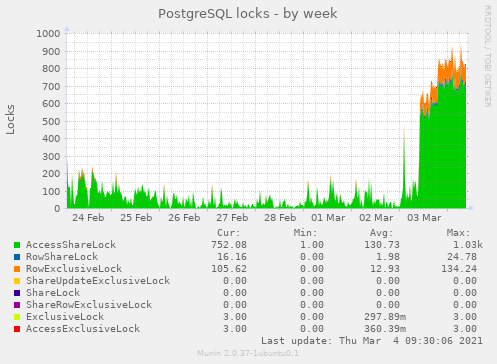
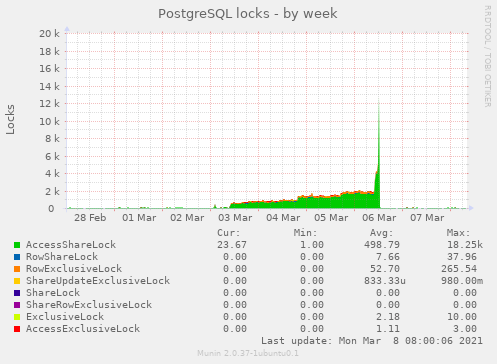
Add notes for 2021-03-08

diff --git a/docs/2021-03/index.html b/docs/2021-03/index.html
@@ -19,7 +19,7 @@ Also, we found some issues building and running OpenRXV currently due to ecosyst
 <meta property="og:type" content="article" />
 <meta property="og:url" content="https://alanorth.github.io/cgspace-notes/2021-03/" />
 <meta property="article:published_time" content="2021-03-01T10:13:54+02:00" />
-<meta property="article:modified_time" content="2021-03-06T13:35:20+02:00" />
+<meta property="article:modified_time" content="2021-03-07T15:51:12+02:00" />
 
 
 
@@ -44,9 +44,9 @@ Also, we found some issues building and running OpenRXV currently due to ecosyst
   "@type": "BlogPosting",
   "headline": "March, 2021",
   "url": "https://alanorth.github.io/cgspace-notes/2021-03/",
-  "wordCount": "1306",
+  "wordCount": "1673",
   "datePublished": "2021-03-01T10:13:54+02:00",
-  "dateModified": "2021-03-06T13:35:20+02:00",
+  "dateModified": "2021-03-07T15:51:12+02:00",
   "author": {
     "@type": "Person",
     "name": "Alan Orth"
@@ -361,6 +361,59 @@ $ curl -X PUT &quot;localhost:9200/openrxv-items/_settings&quot; -H 'Content-Typ
 <li><a href="https://github.com/ilri/OpenRXV/issues/68">Converted the backend container to use a custom image that includes <code>unoconv</code></a> so we don&rsquo;t have to manually install it anymore</li>
 </ul>
 </li>
+</ul>
+<h2 id="2021-03-08">2021-03-08</h2>
+<ul>
+<li>I approved the WLE item that I edited last week, and all the metadata is there: <a href="https://hdl.handle.net/10568/111810">https://hdl.handle.net/10568/111810</a>
+<ul>
+<li>So I&rsquo;m not sure what Niroshini&rsquo;s issue with metadata is&hellip;</li>
+</ul>
+</li>
+<li>Peter sent a message yesterday saying that his item finally got committed
+<ul>
+<li>I looked at the Munin graphs and there was a MASSIVE spike in database activity two days ago, and now database locks are back down to normal levels (from 1000+):</li>
+</ul>
+</li>
+</ul>
+<pre><code class="language-console" data-lang="console">$ psql -c 'SELECT * FROM pg_locks pl LEFT JOIN pg_stat_activity psa ON pl.pid = psa.pid;' | wc -l
+13
+</code></pre><ul>
+<li>On 2021-03-03 the PostgreSQL transactions started rising:</li>
+</ul>
+<p><img src="/cgspace-notes/2021/03/postgres_querylength_ALL-week.png" alt="PostgreSQL query length week"></p>
+<ul>
+<li>After that the connections and locks started going up, peaking on 2021-03-06:</li>
+</ul>
+<p><img src="/cgspace-notes/2021/03/postgres_locks_ALL-week.png" alt="PostgreSQL locks week">
+<img src="/cgspace-notes/2021/03/postgres_connections_ALL-week.png" alt="PostgreSQL connections week"></p>
+<ul>
+<li>I sent another message to Atmire to ask if they have time to look into this</li>
+<li>CIFOR is pressuring me to upload the batch items from last week
+<ul>
+<li>Vika sent me a final file with some duplicates that Peter identified removed</li>
+<li>I extracted and re-applied my basic corrections from last week in OpenRefine, then ran the items through <code>csv-metadata-quality</code> checker and uploaded them to CGSpace</li>
+<li>In total there are 1,088 items</li>
+</ul>
+</li>
+<li>Udana from IWMI emailed to ask about CGSpace thumbnails</li>
+<li>Udana from IWMI emailed to ask about an item uploaded recently that does not appear in AReS
+<ul>
+<li><a href="https://hdl.handle.net/10568/111794">The item</a> was added to the archive on 2021-03-05, and I last harvested on 2021-03-06, so this might be an issue of a missing item</li>
+</ul>
+</li>
+<li>Abenet got a quote from Atmire to buy 125 credits for 3750€</li>
+<li>Maria at Bioversity sent some feedback about duplicate items on AReS</li>
+<li>I&rsquo;m wondering if the issue of the <code>openrxv-items-final</code> index not getting cleared after a successful harvest (which results in having 200,000, then 300,000, etc items) has to do with the alias issue I fixed yesterday
+<ul>
+<li>I will start a fresh harvest on AReS without now to check, but first back up the current index just in case:</li>
+</ul>
+</li>
+</ul>
+<pre><code class="language-console" data-lang="console">$ curl -X PUT &quot;localhost:9200/openrxv-items-final/_settings&quot; -H 'Content-Type: application/json' -d'{&quot;settings&quot;: {&quot;index.blocks.write&quot;: true}}'
+$ curl -s -X POST http://localhost:9200/openrxv-items-final/_clone/openrxv-items-final-2021-03-08
+# start harvesting on AReS
+</code></pre><ul>
+<li>As I saw on my local test instance, even when you cancel a harvesting, it replaces the <code>openrxv-items-final</code> index with whatever is in <code>openrxv-items-temp</code> automatically, so I assume it will do the same now</li>
 </ul>
 <!-- raw HTML omitted -->
 

diff --git a/docs/categories/notes/index.html b/docs/categories/notes/index.html
@@ -10,7 +10,7 @@
 <meta property="og:description" content="Documenting day-to-day work on the [CGSpace](https://cgspace.cgiar.org) repository." />
 <meta property="og:type" content="website" />
 <meta property="og:url" content="https://alanorth.github.io/cgspace-notes/categories/notes/" />
-<meta property="og:updated_time" content="2021-03-06T13:35:20+02:00" />
+<meta property="og:updated_time" content="2021-03-07T15:51:12+02:00" />
 
 
 

diff --git a/docs/categories/notes/page/2/index.html b/docs/categories/notes/page/2/index.html
@@ -10,7 +10,7 @@
 <meta property="og:description" content="Documenting day-to-day work on the [CGSpace](https://cgspace.cgiar.org) repository." />
 <meta property="og:type" content="website" />
 <meta property="og:url" content="https://alanorth.github.io/cgspace-notes/categories/notes/" />
-<meta property="og:updated_time" content="2021-03-06T13:35:20+02:00" />
+<meta property="og:updated_time" content="2021-03-07T15:51:12+02:00" />
 
 
 

diff --git a/docs/categories/notes/page/3/index.html b/docs/categories/notes/page/3/index.html
@@ -10,7 +10,7 @@
 <meta property="og:description" content="Documenting day-to-day work on the [CGSpace](https://cgspace.cgiar.org) repository." />
 <meta property="og:type" content="website" />
 <meta property="og:url" content="https://alanorth.github.io/cgspace-notes/categories/notes/" />
-<meta property="og:updated_time" content="2021-03-06T13:35:20+02:00" />
+<meta property="og:updated_time" content="2021-03-07T15:51:12+02:00" />
 
 
 

diff --git a/docs/categories/notes/page/4/index.html b/docs/categories/notes/page/4/index.html
@@ -10,7 +10,7 @@
 <meta property="og:description" content="Documenting day-to-day work on the [CGSpace](https://cgspace.cgiar.org) repository." />
 <meta property="og:type" content="website" />
 <meta property="og:url" content="https://alanorth.github.io/cgspace-notes/categories/notes/" />
-<meta property="og:updated_time" content="2021-03-06T13:35:20+02:00" />
+<meta property="og:updated_time" content="2021-03-07T15:51:12+02:00" />
 
 
 

diff --git a/docs/categories/notes/page/5/index.html b/docs/categories/notes/page/5/index.html
@@ -10,7 +10,7 @@
 <meta property="og:description" content="Documenting day-to-day work on the [CGSpace](https://cgspace.cgiar.org) repository." />
 <meta property="og:type" content="website" />
 <meta property="og:url" content="https://alanorth.github.io/cgspace-notes/categories/notes/" />
-<meta property="og:updated_time" content="2021-03-06T13:35:20+02:00" />
+<meta property="og:updated_time" content="2021-03-07T15:51:12+02:00" />
 
 
 

diff --git a/docs/categories/index.html b/docs/categories/index.html
@@ -10,7 +10,7 @@
 <meta property="og:description" content="Documenting day-to-day work on the [CGSpace](https://cgspace.cgiar.org) repository." />
 <meta property="og:type" content="website" />
 <meta property="og:url" content="https://alanorth.github.io/cgspace-notes/categories/" />
-<meta property="og:updated_time" content="2021-03-06T13:35:20+02:00" />
+<meta property="og:updated_time" content="2021-03-07T15:51:12+02:00" />
 
 
 

diff --git a/docs/posts/index.html b/docs/posts/index.html
@@ -10,7 +10,7 @@
 <meta property="og:description" content="Documenting day-to-day work on the [CGSpace](https://cgspace.cgiar.org) repository." />
 <meta property="og:type" content="website" />
 <meta property="og:url" content="https://alanorth.github.io/cgspace-notes/posts/" />
-<meta property="og:updated_time" content="2021-03-06T13:35:20+02:00" />
+<meta property="og:updated_time" content="2021-03-07T15:51:12+02:00" />
 
 
 

diff --git a/docs/posts/page/2/index.html b/docs/posts/page/2/index.html
@@ -10,7 +10,7 @@
 <meta property="og:description" content="Documenting day-to-day work on the [CGSpace](https://cgspace.cgiar.org) repository." />
 <meta property="og:type" content="website" />
 <meta property="og:url" content="https://alanorth.github.io/cgspace-notes/posts/" />
-<meta property="og:updated_time" content="2021-03-06T13:35:20+02:00" />
+<meta property="og:updated_time" content="2021-03-07T15:51:12+02:00" />
 
 
 

diff --git a/docs/posts/page/3/index.html b/docs/posts/page/3/index.html
@@ -10,7 +10,7 @@
 <meta property="og:description" content="Documenting day-to-day work on the [CGSpace](https://cgspace.cgiar.org) repository." />
 <meta property="og:type" content="website" />
 <meta property="og:url" content="https://alanorth.github.io/cgspace-notes/posts/" />
-<meta property="og:updated_time" content="2021-03-06T13:35:20+02:00" />
+<meta property="og:updated_time" content="2021-03-07T15:51:12+02:00" />
 
 
 

diff --git a/docs/posts/page/4/index.html b/docs/posts/page/4/index.html
@@ -10,7 +10,7 @@
 <meta property="og:description" content="Documenting day-to-day work on the [CGSpace](https://cgspace.cgiar.org) repository." />
 <meta property="og:type" content="website" />
 <meta property="og:url" content="https://alanorth.github.io/cgspace-notes/posts/" />
-<meta property="og:updated_time" content="2021-03-06T13:35:20+02:00" />
+<meta property="og:updated_time" content="2021-03-07T15:51:12+02:00" />
 
 
 

diff --git a/docs/posts/page/5/index.html b/docs/posts/page/5/index.html
@@ -10,7 +10,7 @@
 <meta property="og:description" content="Documenting day-to-day work on the [CGSpace](https://cgspace.cgiar.org) repository." />
 <meta property="og:type" content="website" />
 <meta property="og:url" content="https://alanorth.github.io/cgspace-notes/posts/" />
-<meta property="og:updated_time" content="2021-03-06T13:35:20+02:00" />
+<meta property="og:updated_time" content="2021-03-07T15:51:12+02:00" />
 
 
 
